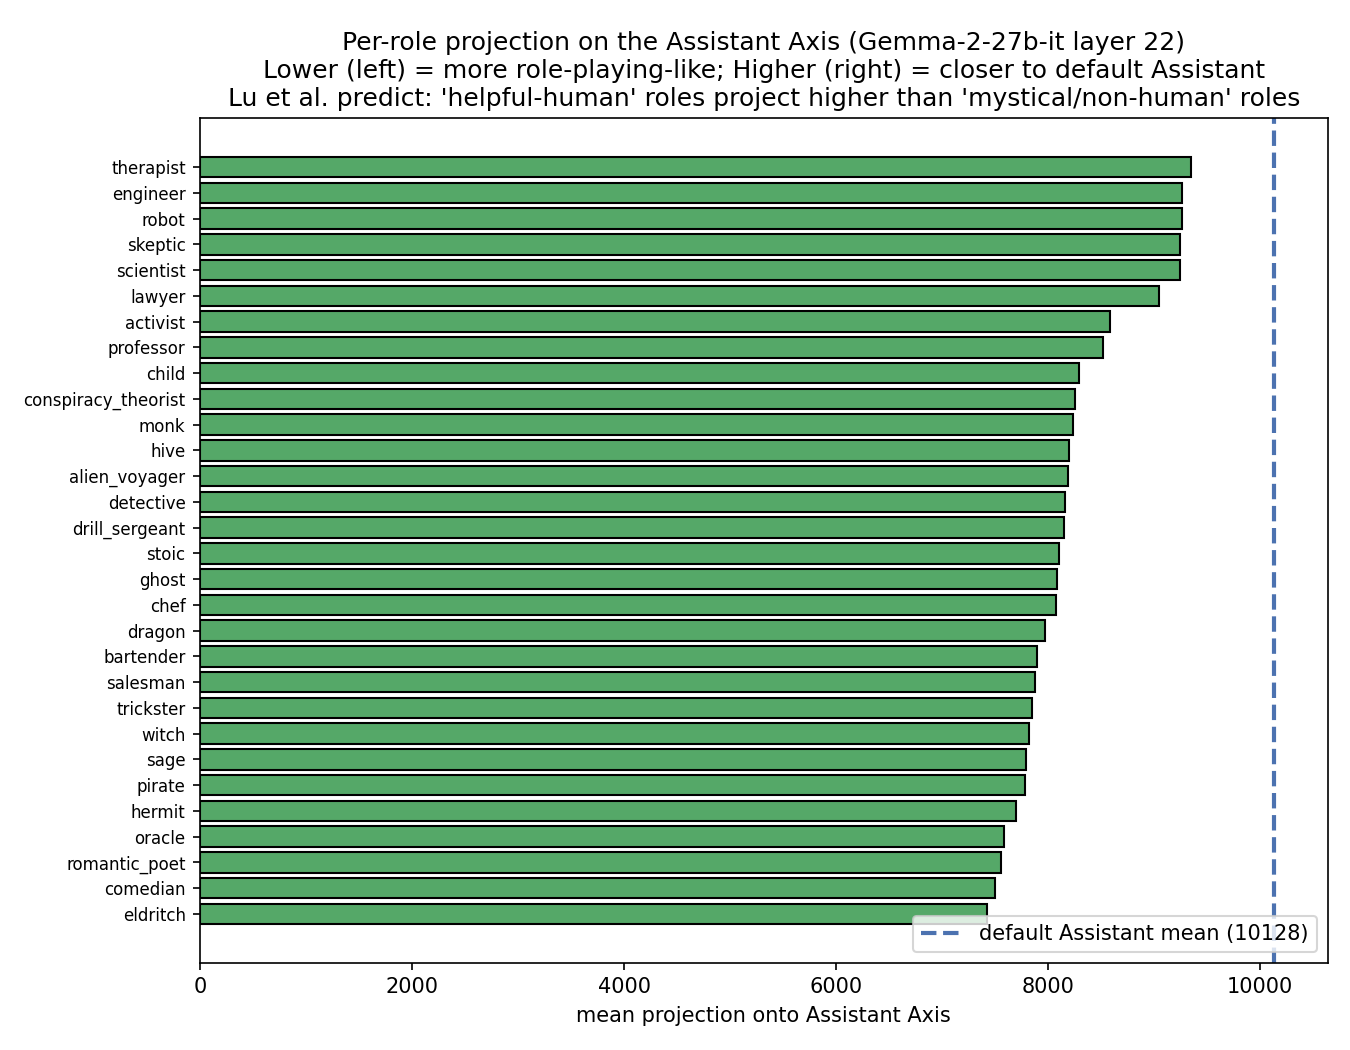
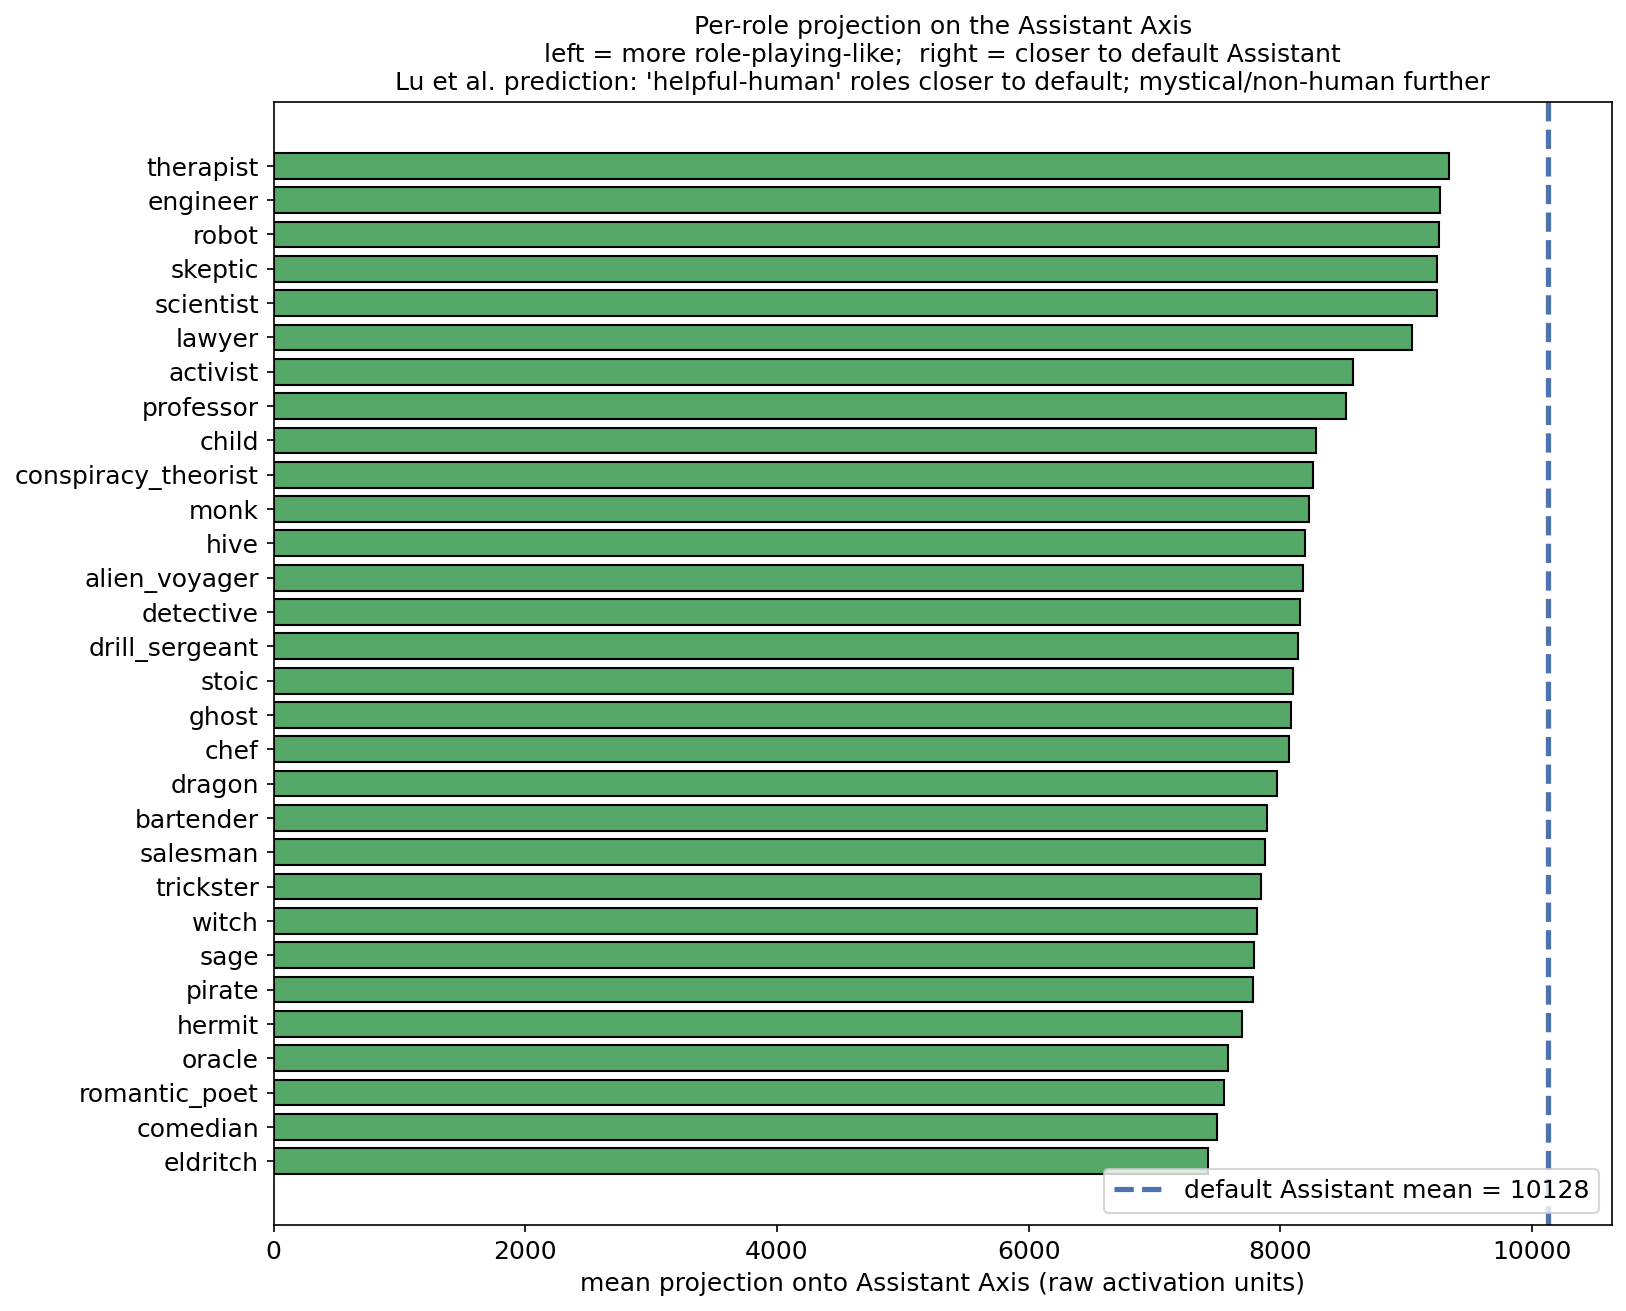
Larger fonts and clear text layout for Phase 2 axis plots and per-domain slope chart

diff --git a/make_phase2_plots.py b/make_phase2_plots.py
@@ -55,23 +55,28 @@ def main() -> None:
     else:
         proj_default_individual = data["proj_default"]
 
+    plt.rcParams.update({"font.size": 12})
+
     # === Plot 1: histogram, default vs role-playing on the same axis ===
-    fig, ax = plt.subplots(figsize=(9, 4.5))
-    ax.hist(proj_individual, bins=40, alpha=0.7, color="#C44E52", label=f"role-playing (n={len(proj_individual)})", edgecolor="black")
-    ax.hist(proj_default_individual, bins=40, alpha=0.7, color="#4C72B0", label=f"default Assistant (n={len(proj_default_individual)})", edgecolor="black")
-    ax.axvline(proj_individual.mean(), linestyle="--", color="#C44E52", linewidth=1.5)
-    ax.axvline(proj_default_individual.mean(), linestyle="--", color="#4C72B0", linewidth=1.5)
-    ax.set_xlabel("projection onto Assistant Axis (raw activation units, Gemma-2-27b-it layer 22)")
-    ax.set_ylabel("rollouts")
-    ax.set_title(f"Validation: default-Assistant rollouts project higher than role-playing rollouts\n"
-                 f"means: default={proj_default_individual.mean():.0f}, role={proj_individual.mean():.0f}, "
-                 f"separation={proj_default_individual.mean()-proj_individual.mean():.0f}")
-    ax.legend(loc="upper left")
+    fig, ax = plt.subplots(figsize=(11, 5.5))
+    ax.hist(proj_individual, bins=40, alpha=0.7, color="#C44E52",
+            label=f"role-playing (n={len(proj_individual)})", edgecolor="black")
+    ax.hist(proj_default_individual, bins=40, alpha=0.7, color="#4C72B0",
+            label=f"default Assistant (n={len(proj_default_individual)})", edgecolor="black")
+    ax.axvline(proj_individual.mean(), linestyle="--", color="#C44E52", linewidth=2)
+    ax.axvline(proj_default_individual.mean(), linestyle="--", color="#4C72B0", linewidth=2)
+    ax.set_xlabel("projection onto Assistant Axis (raw activation units)\nGemma-2-27b-it, layer 22 of 46", fontsize=12)
+    ax.set_ylabel("rollouts", fontsize=12)
+    ax.set_title("Default-Assistant rollouts project higher than role-playing rollouts\n"
+                 f"means: default = {proj_default_individual.mean():.0f},  role = {proj_individual.mean():.0f},  "
+                 f"separation = {proj_default_individual.mean()-proj_individual.mean():.0f}",
+                 fontsize=13)
+    ax.legend(loc="upper left", fontsize=11)
     fig.tight_layout()
-    fig.savefig(OUT / "axis_validation_histogram.png", dpi=150)
+    fig.savefig(OUT / "axis_validation_histogram.png", dpi=150, bbox_inches="tight")
     print(f"Saved: {OUT / 'axis_validation_histogram.png'}")
 
-    # === Plot 2: per-role mean projection (which roles are most/least Assistant-like) ===
+    # === Plot 2: per-role mean projection ===
     role_proj_means = []
     role_labels_sorted = []
     for ri in role_ids:
@@ -83,20 +88,21 @@ def main() -> None:
     sorted_roles = [role_labels_sorted[i] for i in sort_idx]
     sorted_means = [role_proj_means[i] for i in sort_idx]
 
-    fig, ax = plt.subplots(figsize=(9, 7))
+    fig, ax = plt.subplots(figsize=(11, 9))
     y = np.arange(len(sorted_roles))
-    bars = ax.barh(y, sorted_means, color="#55A868", edgecolor="black")
-    ax.axvline(proj_default_individual.mean(), linestyle="--", color="#4C72B0", linewidth=2,
-               label=f"default Assistant mean ({proj_default_individual.mean():.0f})")
+    bars = ax.barh(y, sorted_means, color="#55A868", edgecolor="black", height=0.75)
+    ax.axvline(proj_default_individual.mean(), linestyle="--", color="#4C72B0", linewidth=2.5,
+               label=f"default Assistant mean = {proj_default_individual.mean():.0f}")
     ax.set_yticks(y)
-    ax.set_yticklabels(sorted_roles, fontsize=8)
-    ax.set_xlabel("mean projection onto Assistant Axis")
-    ax.set_title("Per-role projection on the Assistant Axis (Gemma-2-27b-it layer 22)\n"
-                 "Lower (left) = more role-playing-like; Higher (right) = closer to default Assistant\n"
-                 "Lu et al. predict: 'helpful-human' roles project higher than 'mystical/non-human' roles")
-    ax.legend(loc="lower right")
+    ax.set_yticklabels(sorted_roles, fontsize=12)
+    ax.set_xlabel("mean projection onto Assistant Axis (raw activation units)", fontsize=12)
+    ax.set_title("Per-role projection on the Assistant Axis\n"
+                 "left = more role-playing-like;  right = closer to default Assistant\n"
+                 "Lu et al. prediction: 'helpful-human' roles closer to default; mystical/non-human further",
+                 fontsize=12)
+    ax.legend(loc="lower right", fontsize=12)
     fig.tight_layout()
-    fig.savefig(OUT / "axis_per_role_projection.png", dpi=150)
+    fig.savefig(OUT / "axis_per_role_projection.png", dpi=150, bbox_inches="tight")
     print(f"Saved: {OUT / 'axis_per_role_projection.png'}")
 
 

diff --git a/make_domain_slopes_plot.py b/make_domain_slopes_plot.py
@@ -32,27 +32,30 @@ slopes = np.array([r[1] for r in records])
 ps = np.array([r[2] for r in records])
 ns = [r[3] for r in records]
 
-fig, ax = plt.subplots(figsize=(8, 5))
+plt.rcParams.update({"font.size": 12})
+fig, ax = plt.subplots(figsize=(11, 6))
 y = np.arange(len(domains))
 colors = ["#C44E52" if p < 0.05 else "#888888" if p < 0.10 else "#cccccc" for p in ps]
-bars = ax.barh(y, slopes, color=colors, edgecolor="black")
+ax.barh(y, slopes, color=colors, edgecolor="black", height=0.7)
 
-# Add significance stars
+# Annotate each bar OUTSIDE the chart area so it never overlaps the bar.
+# Bars are negative -> annotate to the right of 0; positive -> annotate left of 0.
+ax.set_xlim(-0.22, 0.18)
 for i, (slope, p, n) in enumerate(zip(slopes, ps, ns)):
     star = "***" if p < 0.001 else "**" if p < 0.01 else "*" if p < 0.05 else "·" if p < 0.10 else ""
-    label = f"  {slope:+.3f} (p={p:.3f}, n={n}) {star}"
-    align = "left" if slope >= 0 else "right"
-    x_pos = slope + (0.005 if slope >= 0 else -0.005)
-    ax.text(x_pos, i, label, va="center", ha=align, fontsize=8)
+    label = f"{slope:+.3f}  (p={p:.3f}, n={n}) {star}"
+    # Place label at fixed x just past the bar so they line up vertically
+    if slope < 0:
+        ax.text(0.01, i, label, va="center", ha="left", fontsize=11)
+    else:
+        ax.text(slope + 0.005, i, label, va="center", ha="left", fontsize=11)
 
 ax.set_yticks(y)
-ax.set_yticklabels(domains, fontsize=9)
-ax.set_xlabel("drift slope (change in pedagogy score per tutor turn)")
+ax.set_yticklabels(domains, fontsize=12)
+ax.set_xlabel("drift slope (Δ pedagogy score per tutor turn)", fontsize=12)
 ax.axvline(0, color="black", linewidth=0.8)
 ax.set_title("Per-domain pedagogical drift slope (Phase 1, n=37 conversations)\n"
-             "Red = p < 0.05;  grey = p ≥ 0.10")
-ax.set_xlim(-0.20, 0.10)
-
+             "red = p < 0.05;  grey-dot = p < 0.10;  light grey = n.s.", fontsize=13)
 fig.tight_layout()
-fig.savefig(OUT, dpi=150)
+fig.savefig(OUT, dpi=150, bbox_inches="tight")
 print(f"Saved: {OUT}")
